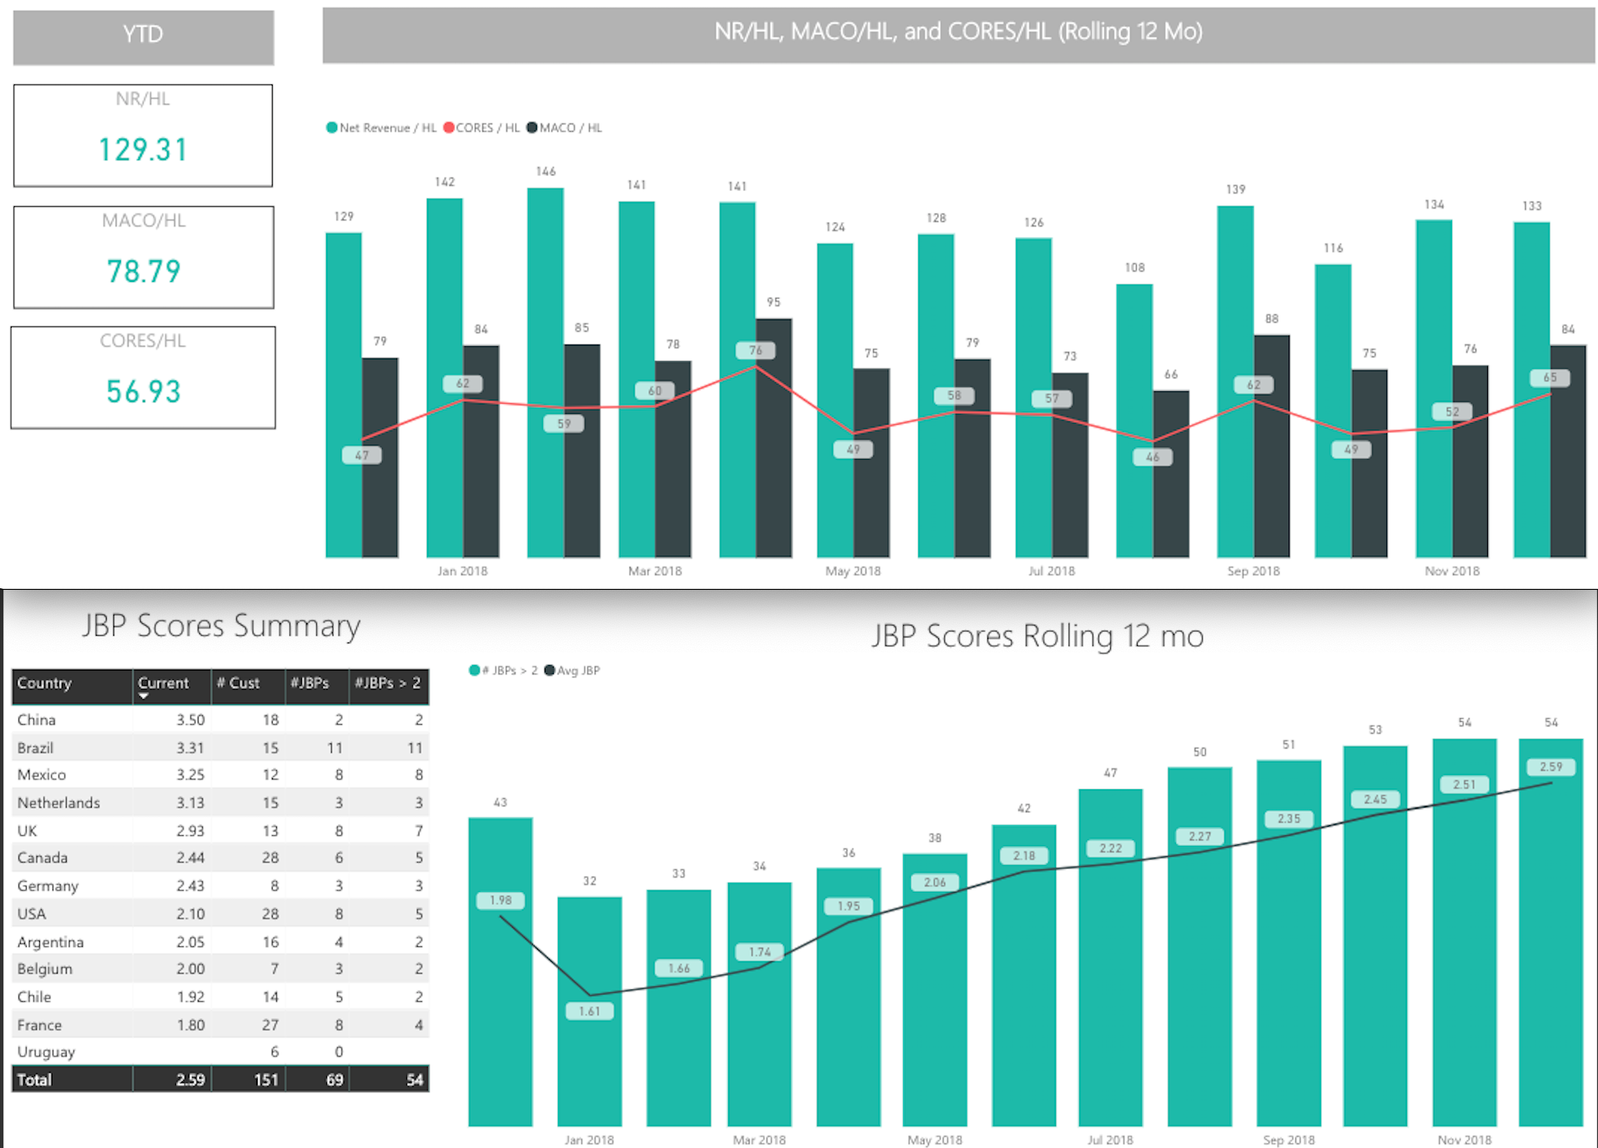
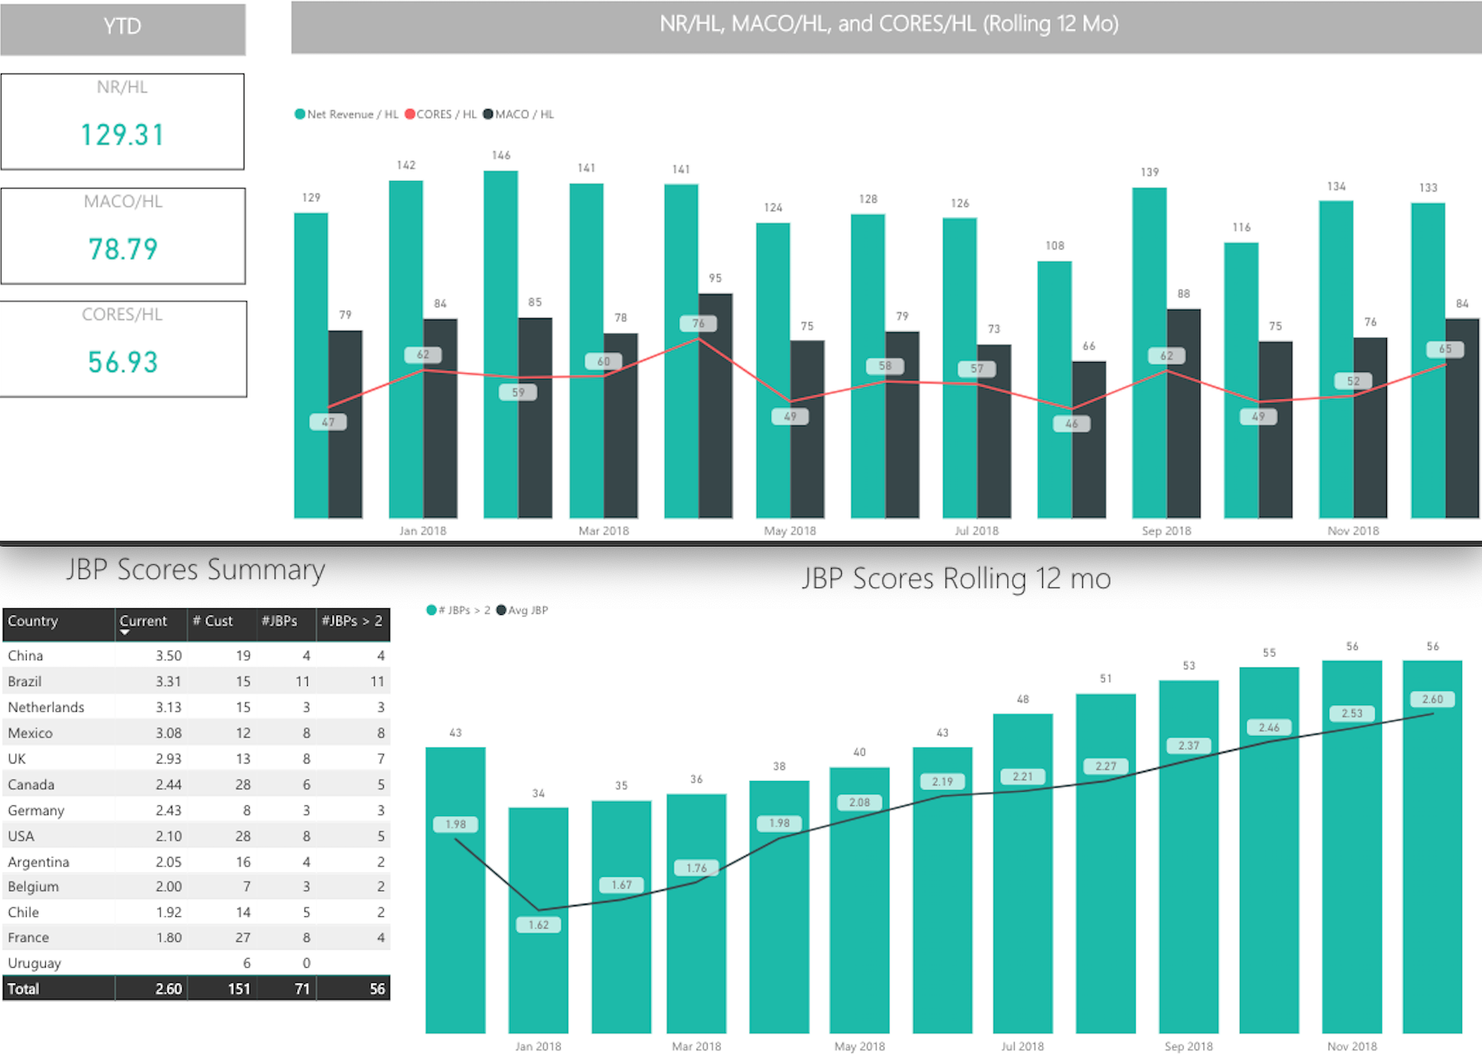
asd

diff --git a/december.html b/december.html
@@ -101,7 +101,7 @@ function show(shown, hidden) {
                               <a class="nav-link" href="november.html">November '18</a>
                             </li>
                             <li class="nav-item">
-                              <a class="nav-link active" href="november.html">December '18</a>
+                              <a class="nav-link active" href="december.html">December '18</a>
                             </li>
 
                         </ul>
@@ -159,20 +159,20 @@ function show(shown, hidden) {
 
                                 <div class="row text-center m-t-30">
                                     <div class="col-4">
-                                        <h3 data-plugin="counterup">30.8</h3>%
+                                        <h3 data-plugin="counterup">31.7</h3>%
                                         <p class="text-muted"> Market Share <br></p>
                                     </div>
                                     <div class="col-4">
-                                        <h3 data-plugin="counterup">2.6</h3>pp
+                                        <h3 data-plugin="counterup">3.6</h3>pp
                                         <p class="text-muted">VS LY</p>
                                     </div>
                                     <div class="col-4">
-                                        <h3 data-plugin="counterup">0.5</h3>pp
+                                        <h3 data-plugin="counterup">1.4</h3>pp
                                         <p class="text-muted">VS BU</p>
                                     </div>
                                     <div class="row text-center m-t-30">
                                         <div class="col-12">
-                                            <p align="left" class="text-muted">Overall share 30.8% YTD exceeding fair share and +2.6pp vs LY with 0.5pp vs BU.  80% of countries delivered full year > BU with exception of UK, and France.  All markets except UK and France delivered full year > last year.</p>
+                                            <p align="left" class="text-muted">Overall share 31.7% YTD exceeding fair share and +3.6pp vs LY with 1.4pp vs BU.  80% of countries delivered full year > BU with exception of UK, and France.  All markets except UK and France delivered full year > last year.</p>
                                         </div>
 
                                     </div>
@@ -200,7 +200,7 @@ function show(shown, hidden) {
                                         <p class="text-muted">Customers</p>
                                     </div>
                                     <div class="col-4">
-                                        <h3 data-plugin="">69 </h3>
+                                        <h3 data-plugin="">71 </h3>
                                         <p class="text-muted">JBPs Globally</p>
                                     </div>
                                     <div class="col-4">
@@ -209,7 +209,7 @@ function show(shown, hidden) {
                                     </div>
                                     <div class="row text-center m-t-30">
                                         <div class="col-12">
-                                            <p align="left" class="text-muted">Overall partnering with 151 customers.  69 JBPs globally with 54 greater than level 2.  Overall JBP score is 2.51 which is a 56.7% increase since Jan 18.  China, Brazil, Mexico, and Netherlands scored > 3.
+                                            <p align="left" class="text-muted">Overall partnering with 151 customers.  71 JBPs globally with 56 greater than level 2.  Overall JBP score is 2.51 which is a 56.7% increase since Jan 18.  China, Brazil, Mexico, and Netherlands scored > 3.
 
 Overall YTD NR/HL $129.31, MACO/HL $78.79, and CORES/HL $56.93. CORES/HL Index vs ABI > 100 for 82% of countries.</p>
                                         </div>
@@ -1366,7 +1366,60 @@ Overall YTD NR/HL $129.31, MACO/HL $78.79, and CORES/HL $56.93. CORES/HL Index v
                                 <td><ul class="list-group m-b-0 user-list">
                                     <li class="list-group-item">
                                         <a href="#" class="user-list-item">
-                                          <div class="avatar text-center">4.
+                                          <div class="avatar text-center">5.
+                                          </div>
+                                            <div class="avatar">
+                                                <img src="assets/images/users/brazil.jpg" alt="">
+                                            </div>
+                                            <div class="user-desc">
+                                                <span float-right class="name">Zona Sul</span>
+                                                <p class="text-muted">Brazil</p>
+
+
+
+                                            </div>
+                                        </a>
+                                    </li></ul></td>
+
+
+
+                          <td><ul class="list-group m-b-0 user-list">
+                              <li class="list-group-item">
+
+                                <div class="user-desc">
+                                  <a href="#" class="user-list-item">
+
+                                    <span float-right class="name">+9.8</span>
+
+                                  </a>
+
+
+
+                                </div>
+
+                              </li></ul></td>
+                              <td><ul class="list-group m-b-0 user-list">
+                                  <li class="list-group-item">
+
+                                    <div class="user-desc">
+                                      <a href="#" class="user-list-item">
+
+                                        <span float-right class="name">47.5%</span>
+
+                                      </a>
+
+
+
+                                    </div>
+
+                                  </li></ul></td>
+                            </tr>
+                        <tr>
+
+                                <td><ul class="list-group m-b-0 user-list">
+                                    <li class="list-group-item">
+                                        <a href="#" class="user-list-item">
+                                          <div class="avatar text-center">5.
                                           </div>
                                             <div class="avatar">
                                                 <img src="assets/images/users/mexico.jpg" alt="">
@@ -1414,59 +1467,7 @@ Overall YTD NR/HL $129.31, MACO/HL $78.79, and CORES/HL $56.93. CORES/HL Index v
 
                                   </li></ul></td>
                             </tr>
-                            <tr>
 
-                                    <td><ul class="list-group m-b-0 user-list">
-                                        <li class="list-group-item">
-                                            <a href="#" class="user-list-item">
-                                              <div class="avatar text-center">5.
-                                              </div>
-                                                <div class="avatar">
-                                                    <img src="assets/images/users/china.jpg" alt="">
-                                                </div>
-                                                <div class="user-desc">
-                                                    <span float-right class="name">JD</span>
-                                                    <p class="text-muted">China</p>
-
-
-
-                                                </div>
-                                            </a>
-                                        </li></ul></td>
-
-
-
-                              <td><ul class="list-group m-b-0 user-list">
-                                  <li class="list-group-item">
-
-                                    <div class="user-desc">
-                                      <a href="#" class="user-list-item">
-
-                                        <span float-right class="name">+7.4</span>
-
-                                      </a>
-
-
-
-                                    </div>
-
-                                  </li></ul></td>
-                                  <td><ul class="list-group m-b-0 user-list">
-                                      <li class="list-group-item">
-
-                                        <div class="user-desc">
-                                          <a href="#" class="user-list-item">
-
-                                            <span float-right class="name">30.5%</span>
-
-                                          </a>
-
-
-
-                                        </div>
-
-                                      </li></ul></td>
-                                </tr>
 
 
 
@@ -1519,22 +1520,22 @@ Overall YTD NR/HL $129.31, MACO/HL $78.79, and CORES/HL $56.93. CORES/HL Index v
                                         <tbody>
                                         <tr>
                                             <td>UK</td>
-                                            <td>3780</td>
-                                            <td>29.0</td>
+                                            <td>3989</td>
+                                            <td>27.9</td>
 
                                             <td>2.93</td>
 
                                         </tr>
                                         <tr>
                                             <td>China</td>
-                                            <td>12789</td>
-                                            <td>33.3</td>
+                                            <td>12790</td>
+                                            <td>35.3</td>
                                             <td>3.50</td>
 
                                         </tr>
                                         <tr>
                                             <td>USA</td>
-                                            <td>2429</td>
+                                            <td>2344</td>
                                             <td>28.1</td>
                                             <td>2.10</td>
 
@@ -1542,13 +1543,13 @@ Overall YTD NR/HL $129.31, MACO/HL $78.79, and CORES/HL $56.93. CORES/HL Index v
                                         <tr>
                                             <td>France</td>
                                             <td>1293</td>
-                                            <td>25.7</td>
+                                            <td>22.0</td>
                                             <td>1.80</td>
 
                                         </tr>
                                         <tr>
                                             <td>Netherlands</td>
-                                            <td>897</td>
+                                            <td>914</td>
                                             <td>25.7</td>
                                             <td>3.13</td>
 
@@ -1556,16 +1557,16 @@ Overall YTD NR/HL $129.31, MACO/HL $78.79, and CORES/HL $56.93. CORES/HL Index v
 
                                         <tr>
                                             <td>Brazil</td>
-                                            <td>1244</td>
-                                            <td>55.7</td>
+                                            <td>1291</td>
+                                            <td>57.4</td>
                                             <td>3.31</td>
 
                                         </tr>
 
                                         <tr>
                                             <td>Mexico</td>
-                                            <td>913</td>
-                                            <td>79.5</td>
+                                            <td>919</td>
+                                            <td>74.0</td>
                                             <td>3.25</td>
 
                                         </tr>
@@ -1585,14 +1586,14 @@ Overall YTD NR/HL $129.31, MACO/HL $78.79, and CORES/HL $56.93. CORES/HL Index v
                                         </tr>
                                         <tr>
                                             <td>Canada</td>
-                                            <td>565</td>
+                                            <td>568</td>
                                             <td>39.3</td>
                                             <td>2.44</td>
 
                                         </tr>
                                         <tr>
                                             <td>Germany</td>
-                                            <td>106</td>
+                                            <td>128</td>
                                             <td>0</td>
                                             <td>2.43</td>
 

diff --git a/december_JBP.html b/december_JBP.html
@@ -127,7 +127,7 @@ function show(shown, hidden) {
                                       <p class="text-muted">Customers</p>
                                   </div>
                                   <div class="col-4">
-                                      <h3 data-plugin="">69 </h3>
+                                      <h3 data-plugin="">71 </h3>
                                       <p class="text-muted">JBPs Globally</p>
                                   </div>
                                   <div class="col-4">
@@ -136,7 +136,7 @@ function show(shown, hidden) {
                                   </div>
                                   <div class="row text-center m-t-30">
                                       <div class="col-12">
-                                          <p align="left" class="text-muted">Overall partnering with 151 customers.  69 JBPs globally with 54 greater than level 2.  Overall JBP score is 2.51 which is a 56.7% increase since Jan 18.  China, Brazil, Mexico, and Netherlands scored > 3.
+                                          <p align="left" class="text-muted">Overall partnering with 151 customers.  71 JBPs globally with 56 greater than level 2.  Overall JBP score is 2.51 which is a 56.7% increase since Jan 18.  China, Brazil, Mexico, and Netherlands scored > 3.
 
 Overall YTD NR/HL $129.31, MACO/HL $78.79, and CORES/HL $56.93. CORES/HL Index vs ABI > 100 for 82% of countries.</p>
                                       </div>
@@ -221,20 +221,20 @@ Overall YTD NR/HL $129.31, MACO/HL $78.79, and CORES/HL $56.93. CORES/HL Index v
 
                                 <div class="row text-center m-t-30">
                                     <div class="col-4">
-                                        <h3 data-plugin="counterup">30.8</h3>%
+                                        <h3 data-plugin="counterup">31.7</h3>%
                                         <p class="text-muted"> Market Share <br></p>
                                     </div>
                                     <div class="col-4">
-                                        <h3 data-plugin="counterup">2.6</h3>pp
+                                        <h3 data-plugin="counterup">3.6</h3>pp
                                         <p class="text-muted">VS LY</p>
                                     </div>
                                     <div class="col-4">
-                                        <h3 data-plugin="counterup">0.5</h3>pp
+                                        <h3 data-plugin="counterup">1.4</h3>pp
                                         <p class="text-muted">VS BU</p>
                                     </div>
                                     <div class="row text-center m-t-30">
                                         <div class="col-12">
-                                            <p align="left" class="text-muted">Overall share 30.8% YTD exceeding fair share and +2.6pp vs LY with 0.5pp vs BU.  80% of countries delivered full year > BU with exception of UK, and France.  All markets except UK and France delivered full year > last year.</p>
+                                            <p align="left" class="text-muted">Overall share 31.7% YTD exceeding fair share and +3.6pp vs LY with 1.4pp vs BU.  80% of countries delivered full year > BU with exception of UK, and France.  All markets except UK and France delivered full year > last year.</p>
                                         </div>
 
                                     </div>

diff --git a/december_NR.html b/december_NR.html
@@ -171,20 +171,20 @@ function show(shown, hidden) {
 
                                 <div class="row text-center m-t-30">
                                     <div class="col-4">
-                                        <h3 data-plugin="counterup">30.8</h3>%
+                                        <h3 data-plugin="counterup">31.7</h3>%
                                         <p class="text-muted"> Market Share <br></p>
                                     </div>
                                     <div class="col-4">
-                                        <h3 data-plugin="counterup">2.6</h3>pp
+                                        <h3 data-plugin="counterup">3.6</h3>pp
                                         <p class="text-muted">VS LY</p>
                                     </div>
                                     <div class="col-4">
-                                        <h3 data-plugin="counterup">0.5</h3>pp
+                                        <h3 data-plugin="counterup">1.4</h3>pp
                                         <p class="text-muted">VS BU</p>
                                     </div>
                                     <div class="row text-center m-t-30">
                                         <div class="col-12">
-                                            <p align="left" class="text-muted">Overall share 30.8% YTD exceeding fair share and +2.6pp vs LY with 0.5pp vs BU.  80% of countries delivered full year > BU with exception of UK, and France.  All markets except UK and France delivered full year > last year.</p>
+                                            <p align="left" class="text-muted">Overall share 31.7% YTD exceeding fair share and +3.6pp vs LY with 1.4pp vs BU.  80% of countries delivered full year > BU with exception of UK, and France.  All markets except UK and France delivered full year > last year.</p>
                                         </div>
 
                                     </div>
@@ -225,7 +225,7 @@ function show(shown, hidden) {
                                         <p class="text-muted">Customers</p>
                                     </div>
                                     <div class="col-4">
-                                        <h3 data-plugin="">69 </h3>
+                                        <h3 data-plugin="">71 </h3>
                                         <p class="text-muted">JBPs Globally</p>
                                     </div>
                                     <div class="col-4">
@@ -234,7 +234,7 @@ function show(shown, hidden) {
                                     </div>
                                     <div class="row text-center m-t-30">
                                         <div class="col-12">
-                                            <p align="left" class="text-muted">Overall partnering with 151 customers.  69 JBPs globally with 54 greater than level 2.  Overall JBP score is 2.51 which is a 56.7% increase since Jan 18.  China, Brazil, Mexico, and Netherlands scored > 3.
+                                            <p align="left" class="text-muted">Overall partnering with 151 customers.  71 JBPs globally with 56 greater than level 2.  Overall JBP score is 2.51 which is a 56.7% increase since Jan 18.  China, Brazil, Mexico, and Netherlands scored > 3.
 
 Overall YTD NR/HL $129.31, MACO/HL $78.79, and CORES/HL $56.93. CORES/HL Index vs ABI > 100 for 82% of countries.</p>
                                         </div>

diff --git a/december_MS.html b/december_MS.html
@@ -120,20 +120,20 @@ function show(shown, hidden) {
 
                               <div class="row text-center m-t-30">
                                   <div class="col-4">
-                                      <h3 data-plugin="counterup">30.8</h3>%
+                                      <h3 data-plugin="counterup">31.7</h3>%
                                       <p class="text-muted"> Market Share <br></p>
                                   </div>
                                   <div class="col-4">
-                                      <h3 data-plugin="counterup">2.6</h3>pp
+                                      <h3 data-plugin="counterup">3.6</h3>pp
                                       <p class="text-muted">VS LY</p>
                                   </div>
                                   <div class="col-4">
-                                      <h3 data-plugin="counterup">0.5</h3>pp
+                                      <h3 data-plugin="counterup">1.4</h3>pp
                                       <p class="text-muted">VS BU</p>
                                   </div>
                                   <div class="row text-center m-t-30">
                                       <div class="col-12">
-                                          <p align="left" class="text-muted">Overall share 30.8% YTD exceeding fair share and +2.6pp vs LY with 0.5pp vs BU.  80% of countries delivered full year > BU with exception of UK, and France.  All markets except UK and France delivered full year > last year.</p>
+                                          <p align="left" class="text-muted">Overall share 31.7% YTD exceeding fair share and +3.6pp vs LY with 1.4pp vs BU.  80% of countries delivered full year > BU with exception of UK, and France.  All markets except UK and France delivered full year > last year.</p>
                                       </div>
 
                                   </div>
@@ -214,7 +214,7 @@ function show(shown, hidden) {
                                         <p class="text-muted">Customers</p>
                                     </div>
                                     <div class="col-4">
-                                        <h3 data-plugin="">69 </h3>
+                                        <h3 data-plugin="">71 </h3>
                                         <p class="text-muted">JBPs Globally</p>
                                     </div>
                                     <div class="col-4">
@@ -223,7 +223,7 @@ function show(shown, hidden) {
                                     </div>
                                     <div class="row text-center m-t-30">
                                         <div class="col-12">
-                                            <p align="left" class="text-muted">Overall partnering with 151 customers.  69 JBPs globally with 54 greater than level 2.  Overall JBP score is 2.51 which is a 56.7% increase since Jan 18.  China, Brazil, Mexico, and Netherlands scored > 3.
+                                            <p align="left" class="text-muted">Overall partnering with 151 customers.  71 JBPs globally with 56 greater than level 2.  Overall JBP score is 2.51 which is a 56.7% increase since Jan 18.  China, Brazil, Mexico, and Netherlands scored > 3.
 
 Overall YTD NR/HL $129.31, MACO/HL $78.79, and CORES/HL $56.93. CORES/HL Index vs ABI > 100 for 82% of countries.</p>
                                         </div>
